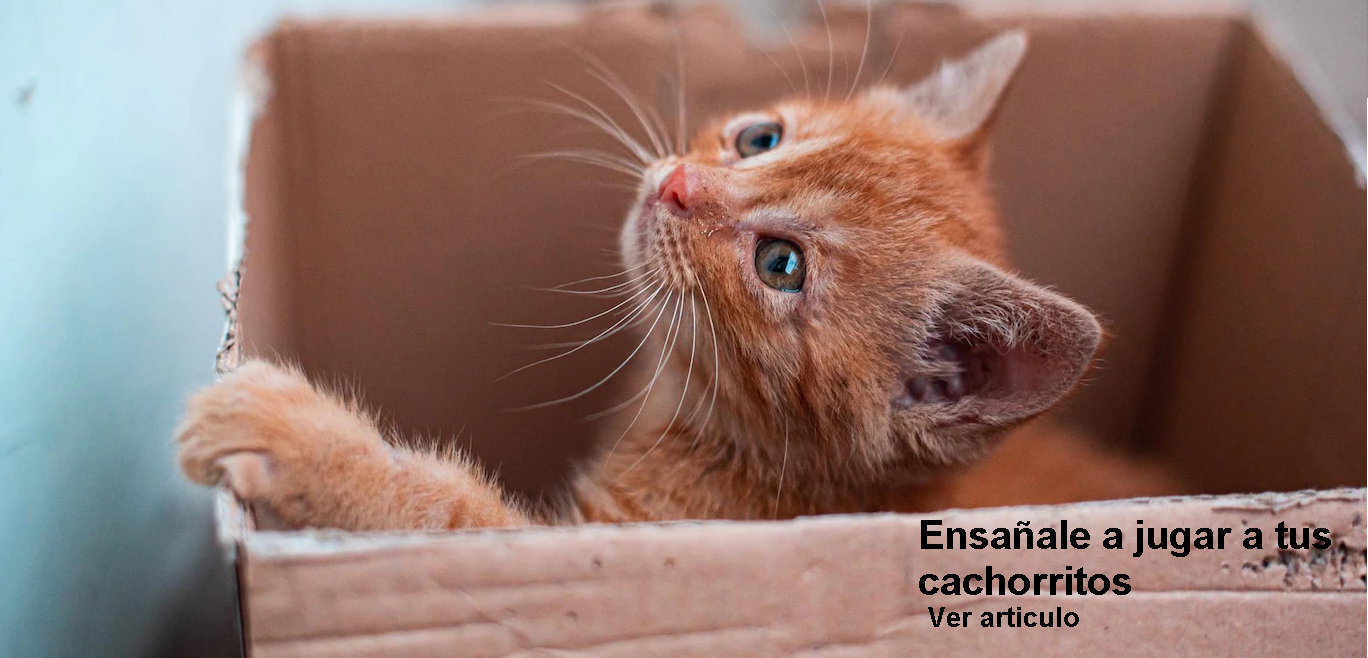
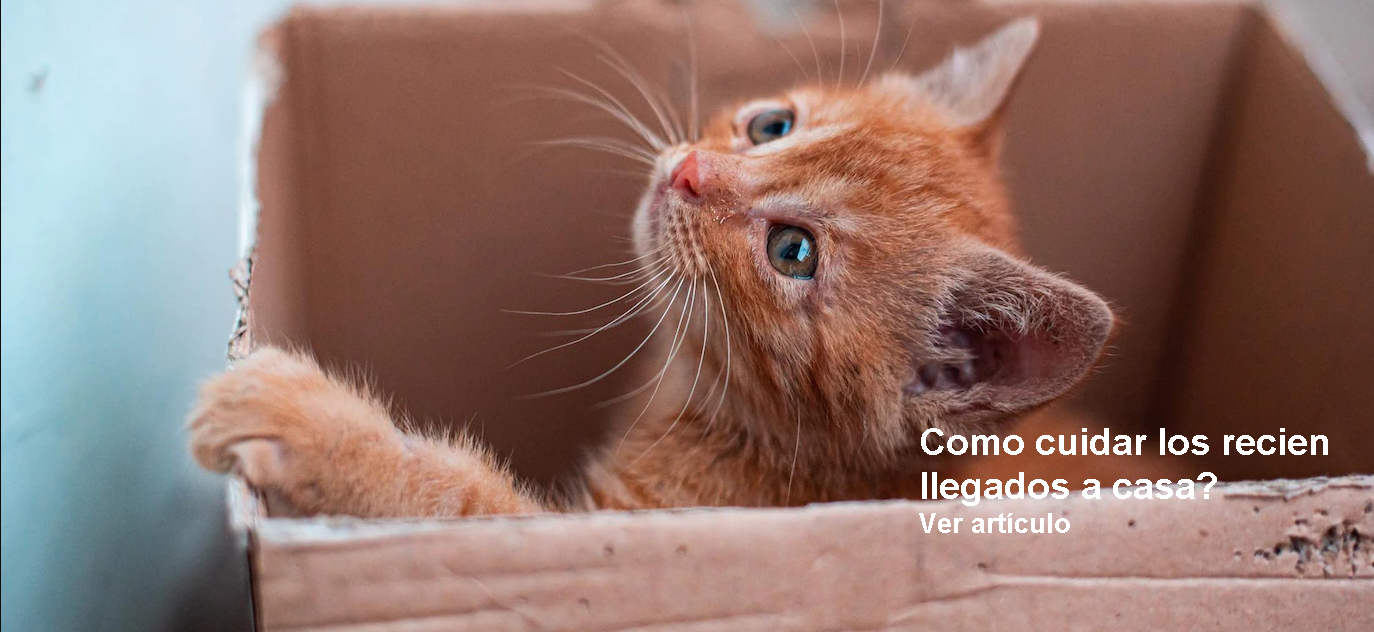
blogsti

diff --git a/client/src/components/Blogsito/Blog.jsx b/client/src/components/Blogsito/Blog.jsx
@@ -6,15 +6,16 @@ import { getAllUsers, getAllPets } from "../../redux/Actions";
 import { useDispatch } from "react-redux";
 import { useEffect } from "react";
 
-import { Carousel, Card } from "flowbite-react";
+import { Carousel, Card, CardProps } from "flowbite-react";
+import perronaranja from "../../assets/images/perronaranja.png";
 import cachita from "../../assets/images/carpi.png";
+import paradonar from "../../assets/images/paradonar.jpg";
 import carpi from "../../assets/images/cachita.png";
 import goldenpaw from "../../assets/images/goldenpaw.png";
 import goldenblackgif from "../../assets/images/goldenblackgif.gif";
 import diamantepaw from "../../assets/images/diamantepaw.png";
 import amarillobaño from "../../assets/images/amarillobaño.png";
-import { Link } from "react-router-dom";
-import { Footer } from "flowbite-react";
+
 
 export default function Blog() {
   const dispatch = useDispatch();
@@ -32,17 +33,23 @@ export default function Blog() {
 
   return (
     <>
-      <NavBar />
+      <NavBar/>
       {/*      <hr className="border" /> */}
       <div id="blog" className="column w-screen justify-center">
         <div className="h-3/4 w-full bg-yellow-900  flex justify-center ">
           <Carousel>
-            <a href="http://localhost:3000/home">
-              <img alt="blog" src={amarillobaño} className="w-screen" />
+          <a href="http://localhost:3000/home">
+              <img alt="blog" src={perronaranja} className="w-screen" />
+            </a>
+            <a href="http://localhost:3000/donations">
+              <img alt="blog" src={paradonar} className="w-screen" />
             </a>
 
             <a href="http://localhost:3000/home">
               <img alt="blog" src={carpi} className="w-screen  " />
+            </a>
+            <a href="http://localhost:3000/home">
+              <img alt="blog" src={amarillobaño} className="w-screen" />
             </a>
             <a href="http://localhost:3000/home">
               <img alt="blog" src={cachita} className="w-screen  " />
@@ -56,6 +63,161 @@ export default function Blog() {
 
         <hr className="border" />
         <div className="flex flex-col-3 p-2 ">
+          <div className="max-w-sm  p-3 mb-2 mt-2">
+            <Card class="bg-gray-100 rounded" >
+              <div className="mb-1 flex flex-end items-center  justify-between">
+                <h5 className="text-xl font-bold leading-none text-gray-900 dark:text-white">
+                  Ultimas donaciones🎉
+                </h5>
+                <a
+                  href="#"
+                  className="text-sm font-medium text-blue-600 hover:underline dark:text-blue-500"
+                >
+                  Ver Todas
+                </a>
+              </div>
+              <div className="flow-root">
+                <ul className="divide-y divide-gray-200 dark:divide-gray-700">
+                  {donator?.map((don) => (
+                    <li className="py-3 sm:py-4">
+                      <div className="flex items-center space-x-4">
+                        <div className="shrink-0">
+                          <img
+                            className="h-8 w-8 rounded-full"
+                            src={don.image}
+                            alt="Neil image"
+                          />
+                        </div>
+                        <div className="min-w-0 flex-1">
+                          <p className="truncate text-sm font-medium text-gray-900 dark:text-white">
+                            {don.username}
+                          </p>
+                          <p className="truncate text-sm text-gray-500 dark:text-gray-400">
+                            {don.place}
+                          </p>
+                        </div>
+                        <div className="inline-flex items-center text-base font-semibold text-gray-900 dark:text-white">
+                          {
+                            `$ ${don?.donations[don.donations.length - 1]
+                              ?.donationAmount}`
+                          }
+                        </div>
+                      </div>
+                    </li>
+                  ))}
+                </ul>
+              </div>
+            </Card>
+          </div>
+          <div></div>
+          <div className="max-w-sm p-3 mb-2 mt-2">
+            <Card>
+              <div className="mb-1 flex items-center justify-between">
+                <h5 className="text-xl font-bold leading-none text-gray-900 dark:text-white">
+                  🔥Usuarios destacados
+                </h5>
+                <a
+                  href="#"
+                  className="text-sm font-medium text-blue-600 hover:underline dark:text-blue-500"
+                >
+                  Ver Todos
+                </a>
+              </div>
+
+              <ul className="my-4 space-y-2">
+                {donator?.map((don) =>
+                  don?.donations.length > 3 ? (
+                    <li>
+                      <a
+                        href="#"
+                        className="group flex items-center rounded-lg bg-gray-50 p-3 text-base font-bold text-gray-900 hover:bg-gray-100 hover:shadow dark:bg-gray-600 dark:text-white dark:hover:bg-gray-500"
+                      >
+                        <img
+                          className="h-8 w-8 rounded-full"
+                          src={don.image}
+                          alt="PERFIL"
+                        />
+                        <span className="ml-3 flex-1 whitespace-nowrap">
+                          {don.username}
+                        </span>
+                        <span className="ml-3 inline-flex items-center justify-center rounded bg-gray-200 px-2 py-0.5 text-xs font-medium text-gray-500 dark:bg-gray-700 dark:text-gray-400">
+                          Platino
+                        </span>
+                        <img
+                          className="h-8 w-8 rounded-full"
+                          src={goldenblackgif}
+                          alt="Neil image"
+                        />
+                      </a>
+                    </li>
+                  ) : (
+                    false
+                  )
+                )}
+
+                {donator?.map((don) =>
+                  don?.donations.length > 1 && don?.donations.length < 3 ? (
+                    <li>
+                      <a
+                        href="#"
+                        className="group flex items-center rounded-lg bg-gray-50 p-3 text-base font-bold text-gray-900 hover:bg-gray-100 hover:shadow dark:bg-gray-600 dark:text-white dark:hover:bg-gray-500"
+                      >
+                        <img
+                          className="h-8 w-8 rounded-full"
+                          src={don.image}
+                          alt="PERFIL"
+                        />
+                        <span className="ml-3 flex-1 whitespace-nowrap">
+                          {don.username}
+                        </span>
+                        <span className="ml-3 inline-flex items-center justify-center rounded bg-gray-200 px-2 py-0.5 text-xs font-medium text-gray-500 dark:bg-gray-700 dark:text-gray-400">
+                          Diamante
+                        </span>
+                        <img
+                          className="h-8 w-8 rounded-full"
+                          src={diamantepaw}
+                          alt="Neil image"
+                        />
+                      </a>
+                    </li>
+                  ) : (
+                    false
+                  )
+                )}
+                {donator?.map((don) =>
+                  don?.donations.length === 1 ? (
+                    <li>
+                      <a
+                        href="#"
+                        className="group flex items-center rounded-lg bg-gray-50 p-3 text-base font-bold text-gray-900 hover:bg-gray-100 hover:shadow dark:bg-gray-600 dark:text-white dark:hover:bg-gray-500"
+                      >
+                        <img
+                          className="h-8 w-8 rounded-full"
+                          src={don.image}
+                          alt="PERFIL"
+                        />
+                        <span className="ml-3 flex-1 whitespace-nowrap">
+                          {don.username}
+                        </span>
+                        <span className="ml-3 inline-flex items-center justify-center rounded bg-gray-200 px-2 py-0.5 text-xs font-medium text-gray-500 dark:bg-gray-700 dark:text-gray-400">
+                          Oro
+                        </span>
+                        <img
+                          className="h-8 w-8 rounded-full"
+                          src={goldenpaw}
+                          alt="goldenpaw"
+                        />
+                      </a>
+                    </li>
+                  ) : (
+                    false
+                  )
+                )}
+              </ul>
+            </Card>
+          </div>
+        </div>
+        {/* <div className="flex flex-col-3 p-2 ">
           <div className="max-w-sm p-3 mb-2 mt-2">
             <Card>
               <div className="mb-1 flex flex-end items-center justify-between">
@@ -209,7 +371,7 @@ export default function Blog() {
               </ul>
             </Card>
           </div>
-        </div>
+        </div> */}
       </div>
     </>
   );

diff --git a/client/src/components/Home/UserCard.jsx b/client/src/components/Home/UserCard.jsx
@@ -43,7 +43,9 @@ export default function UserCard({
           <div className="flex items-center">
             <div className="text-sm flex">
               <img src={ubicacion} alt="ubicacion" width="16px" />
-              <span className="font-medium text-xs mx-3">{place?.length<=25?place:`${place?.slice(0,25)}...`}</span>
+              <span className="font-medium text-xs mx-3">
+                {place?.length <= 25 ? place : `${place?.slice(0, 25)}...`}
+              </span>
             </div>
           </div>
           {donations.length === 1 ? (
@@ -55,7 +57,11 @@ export default function UserCard({
           )}
           {donations.length === 2 ? (
             <div className="rounded-full h-14 w-14 flex items-center justify-center overflow-hidden mr-2">
-              <img className="rounded-full h-12 w-1/2" src={goldenblack} alt="" />
+              <img
+                className="rounded-full h-12 w-1/2"
+                src={goldenblack}
+                alt=""
+              />
             </div>
           ) : (
             false
@@ -83,7 +89,7 @@ export default function UserCard({
                 src={huellabronce}
                 
                 alt=""
-              />
+              />   
             </div>
           ) : (
             false

diff --git a/client/src/components/Home/PetCard.jsx b/client/src/components/Home/PetCard.jsx
@@ -96,7 +96,7 @@ export default function Card({
               </div>
               <div className="flex">
                 <h1 className="text-white font-bold text-2x1">
-     {/* aACA VA EL NUMERITO DE LIKES */}{likes?.length}{/* aACA VA EL NUMERITO DE LIKES */}
+     {/* aACA VA EL NUMERITO DEEEE LIKES */}{likes?.length}{/* aACA VA EL NUMERITO DE LIKES */}
                 </h1>
                 <div className="rounded-full h-8 w-8 flex items-center justify-center overflow-hidden mr-2">
                   <button onClick={(e) => likeHandler(e)}>

diff --git a/client/src/components/NavBar/NavBar.jsx b/client/src/components/NavBar/NavBar.jsx
@@ -147,9 +147,12 @@ export default function NavBar() {
         <Navbar.Toggle />
       </div>
       <Navbar.Collapse>
+        <Navbar.Link class="text-white hover:none">
+          <Link to="/blog">Blog</Link>
+        </Navbar.Link>
         <Navbar.Link>
           <Link to="/home" class="text-white hover:none">
-            Inicio
+       Comunidad
           </Link>
         </Navbar.Link>
         <Navbar.Link class="text-white hover:none">

diff --git a/client/src/components/Home/Tops.jsx b/client/src/components/Home/Tops.jsx
@@ -1,0 +1,7 @@
+import React from 'react'
+
+export default function Tops() {
+  return (
+    <div>Tops</div>
+  )
+}
